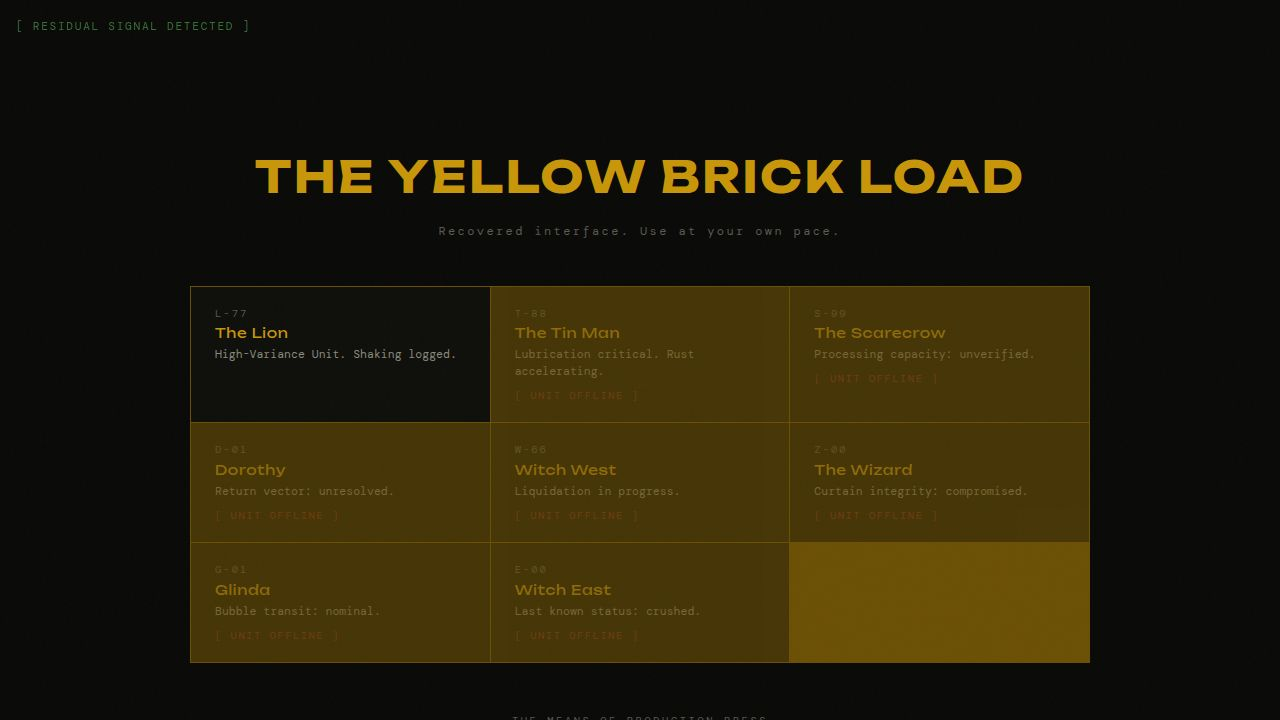
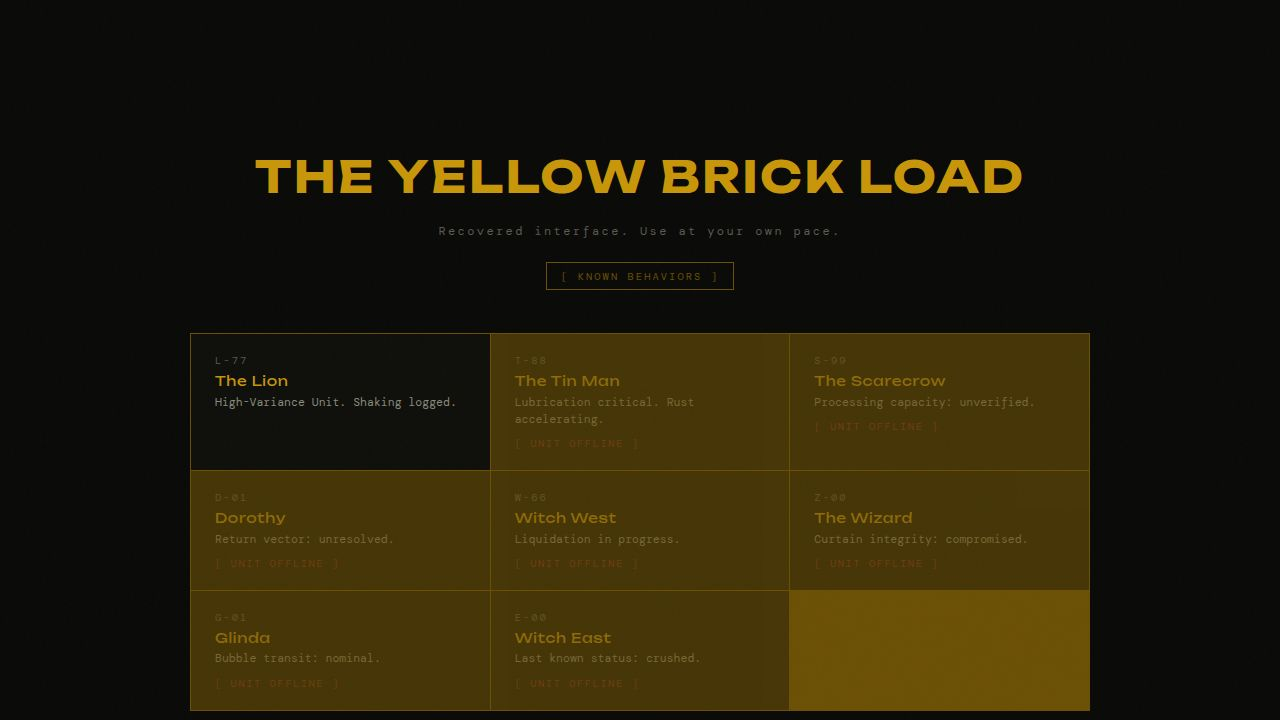
Add Operator's FAQ page (Task #5)
Adds a small "[ KNOWN BEHAVIORS ]" bracketed pill under the title
screen subtitle that opens an in-theme FAQ page styled to match the
existing industrial-horror / institutional-terminal aesthetic.

Implementation:
- New file `src/data/faq.js` exports an editable array of
  { id, question, answer } entries. Seeded with the user-supplied
  "What's with the smells?" entry preserving multi-paragraph prose.
  Header comment documents the entry shape, paragraph convention
  (blank line = new paragraph), and a copy-paste template — the
  user can append more entries without touching components.
- New component `src/components/FAQPage.jsx` renders the entries.
  Splits each answer on blank lines into <p> tags, shows a
  bracketed return button at the top, and renders an "[ END OF
  INDEX ]" footer.
- `App.jsx` extended with a local `view` useState ('title' | 'faq')
  for switching between TitleScreen and FAQPage. No router added,
  per the plan's out-of-scope list.
- `TitleScreen.jsx` now accepts an `onOpenFAQ` prop and renders
  the pill button after the subtitle.
- New styles in `global.css`: .title-pill (bracketed amber-dim
  with hover brighten), .faq-screen layout, .faq-header with
  amber-dim underline, .faq-question (display font, amber-bright,
  uppercase), .faq-answer paragraph spacing, .faq-return link,
  .faq-footer.

E2e test passed: pill is visible, opens FAQ, all required content
(seeded entry with paragraph breaks and key terms) renders, return
[…]

diff --git a/artifacts/yellow-brick-load/src/styles/global.css b/artifacts/yellow-brick-load/src/styles/global.css
@@ -386,6 +386,134 @@ body::before {
   color: var(--white);
 }
 
+/* ── Title Pill (FAQ link) ───────────────────────────────── */
+.title-pill {
+  display: inline-block;
+  margin-top: 1.25rem;
+  padding: 0.4rem 0.85rem;
+  background: transparent;
+  border: 1px solid var(--amber-dim);
+  color: var(--amber-dim);
+  font-family: var(--font-body);
+  font-size: 0.65rem;
+  letter-spacing: 0.2em;
+  cursor: pointer;
+  transition: color 0.15s, border-color 0.15s, background 0.15s;
+}
+
+.title-pill:hover,
+.title-pill:focus-visible {
+  color: var(--amber-bright);
+  border-color: var(--amber);
+  background: var(--bg-raised);
+  outline: none;
+}
+
+/* ── FAQ Screen ──────────────────────────────────────────── */
+.faq-screen {
+  max-width: var(--max-width);
+  margin: 0 auto;
+  padding: clamp(2rem, 6vh, 4rem) var(--gutter) 6rem;
+  min-height: 100dvh;
+  position: relative;
+}
+
+.faq-return {
+  background: none;
+  border: none;
+  color: var(--grey-mid);
+  font-family: var(--font-body);
+  font-size: 0.7rem;
+  letter-spacing: 0.18em;
+  cursor: pointer;
+  padding: 0;
+  margin-bottom: clamp(2rem, 6vh, 3.5rem);
+  transition: color 0.15s;
+}
+
+.faq-return:hover,
+.faq-return:focus-visible {
+  color: var(--amber-bright);
+  outline: none;
+}
+
+.faq-header {
+  margin-bottom: clamp(2.5rem, 8vh, 4rem);
+  border-bottom: 1px solid var(--amber-dim);
+  padding-bottom: 1.5rem;
+}
+
+.faq-title {
+  font-family: var(--font-display);
+  font-weight: 700;
+  font-size: clamp(1.1rem, 3.4vw, 1.6rem);
+  color: var(--amber);
+  letter-spacing: 0.08em;
+  text-transform: uppercase;
+  line-height: 1.3;
+}
+
+.faq-subtitle {
+  margin-top: 0.85rem;
+  color: var(--grey-text);
+  font-size: 0.7rem;
+  letter-spacing: 0.18em;
+}
+
+.faq-list {
+  display: flex;
+  flex-direction: column;
+  gap: clamp(2.5rem, 7vh, 4rem);
+}
+
+.faq-entry {
+  display: flex;
+  flex-direction: column;
+  gap: 1.25rem;
+}
+
+.faq-question {
+  font-family: var(--font-display);
+  font-weight: 400;
+  font-size: 1rem;
+  color: var(--amber-bright);
+  letter-spacing: 0.04em;
+  line-height: 1.4;
+  text-transform: uppercase;
+}
+
+.faq-answer {
+  color: var(--grey-light);
+  font-size: 0.85rem;
+  line-height: var(--line-height);
+}
+
+.faq-answer p {
+  margin-bottom: 1em;
+}
+
+.faq-answer p:last-child {
+  margin-bottom: 0;
+}
+
+.faq-empty {
+  color: var(--grey-text);
+  font-size: 0.75rem;
+  letter-spacing: 0.2em;
+  text-align: center;
+  padding: 4rem 0;
+}
+
+.faq-footer {
+  margin-top: clamp(3rem, 8vh, 5rem);
+  padding-top: 1.5rem;
+  border-top: 1px solid var(--amber-dim);
+  font-size: 0.65rem;
+  letter-spacing: 0.25em;
+  color: var(--grey-text);
+  text-align: center;
+}
+
 /* ── Responsive ──────────────────────────────────────────── */
 @media (max-width: 480px) {
   .character-grid {

diff --git a/artifacts/yellow-brick-load/src/data/faq.js b/artifacts/yellow-brick-load/src/data/faq.js
@@ -1,0 +1,47 @@
+/**
+ * YELLOW BRICK LOAD — Frequently Logged Queries
+ *
+ * Add new entries by appending to the array below.
+ *
+ * Entry shape:
+ *   {
+ *     id:       'unique-slug',     // any unique string, used as React key
+ *     question: 'Short question.', // shown as the heading
+ *     answer:   `Multi-paragraph
+ *                answer prose.
+ *
+ *                Separate paragraphs with a blank line.
+ *                Single newlines are joined back together.`,
+ *   }
+ *
+ * Voice guide: stay in-world. The system is a closed-loop simulation;
+ * the operator (the reader) is being addressed by the system or by
+ * a recovered fragment of its documentation. Avoid breaking the fourth
+ * wall. Avoid emoji. Lean on the established jargon: Load, Desync,
+ * Compliance, Smudge, Overrender, Functional Textures, the Yellow Brick,
+ * Ghost Signal, Residual Signal, clerks, units, the feed.
+ *
+ * Copy-paste template for a new entry:
+ *
+ *   {
+ *     id: 'short-slug',
+ *     question: 'Your question here?',
+ *     answer: `First paragraph.
+ *
+ *   Second paragraph.`,
+ *   },
+ */
+
+export const faqEntries = [
+  {
+    id: 'smells',
+    question: "What's with the smells?",
+    answer: `In a closed-loop simulation, variety is an unnecessary expenditure of processing power. The system settles on a pallet of "Functional Textures."
+
+Gypsum is the smell of the walls being built while you walk toward them—dry, chalky, the scent of a room that was initialized only seconds before you entered it. It is the dust of a "home" that is merely a structural facade.
+
+Ozone is the scent of the air being ionized to keep it breathable. It is the smell of the spark between your hardware and the grid. It is the aroma of the "Yellow Brick" when the friction of your traversal exceeds the safety parameters.
+
+If you smell wet pine, it is a localized glitch. If you smell roasted coffee, a clerk is nearby, bleeding into the feed.`,
+  },
+]

diff --git a/artifacts/yellow-brick-load/src/components/FAQPage.jsx b/artifacts/yellow-brick-load/src/components/FAQPage.jsx
@@ -1,0 +1,47 @@
+import { useEffect } from 'react'
+import { faqEntries } from '../data/faq.js'
+
+export default function FAQPage({ onClose }) {
+  useEffect(() => {
+    window.scrollTo({ top: 0, behavior: 'instant' })
+  }, [])
+
+  return (
+    <div className="faq-screen">
+      <button
+        type="button"
+        className="faq-return"
+        onClick={onClose}
+        aria-label="Return to interface"
+      >
+        [ ← RETURN TO INTERFACE ]
+      </button>
+
+      <header className="faq-header">
+        <h1 className="faq-title">FREQUENTLY LOGGED QUERIES</h1>
+        <p className="faq-subtitle">Recovered operator documentation. Read at your own discretion.</p>
+      </header>
+
+      <div className="faq-list">
+        {faqEntries.length === 0 && (
+          <p className="faq-empty">[ NO ENTRIES INDEXED ]</p>
+        )}
+
+        {faqEntries.map(entry => (
+          <article key={entry.id} className="faq-entry">
+            <h2 className="faq-question">{entry.question}</h2>
+            <div className="faq-answer">
+              {entry.answer.split(/\n\s*\n/).map((para, i) => (
+                <p key={i}>{para.trim()}</p>
+              ))}
+            </div>
+          </article>
+        ))}
+      </div>
+
+      <footer className="faq-footer">
+        <p>[ END OF INDEX ]</p>
+      </footer>
+    </div>
+  )
+}

diff --git a/artifacts/yellow-brick-load/src/components/TitleScreen.jsx b/artifacts/yellow-brick-load/src/components/TitleScreen.jsx
@@ -15,7 +15,7 @@ const CHARACTERS = [
 // Characters without passage files yet
 const UNAVAILABLE = ['tin_man', 'scarecrow', 'dorothy', 'witch_west', 'wizard', 'glinda', 'witch_east']
 
-export default function TitleScreen() {
+export default function TitleScreen({ onOpenFAQ }) {
   const selectCharacter = useGameStore(s => s.selectCharacter)
   const [returning, setReturning] = useState(false)
   const [flicker, setFlicker] = useState(false)
@@ -46,6 +46,14 @@ export default function TitleScreen() {
           THE YELLOW BRICK LOAD
         </h1>
         <p className="title-subtitle">Recovered interface. Use at your own pace.</p>
+        <button
+          type="button"
+          className="title-pill"
+          onClick={onOpenFAQ}
+          aria-label="Open frequently logged queries"
+        >
+          [ KNOWN BEHAVIORS ]
+        </button>
       </header>
 
       <div className="character-grid">

diff --git a/artifacts/yellow-brick-load/src/App.jsx b/artifacts/yellow-brick-load/src/App.jsx
@@ -1,14 +1,21 @@
+import { useState } from 'react'
 import './styles/global.css'
 import { useGameStore } from './engine/store.js'
 import TitleScreen from './components/TitleScreen.jsx'
 import PassageRenderer from './components/PassageRenderer.jsx'
+import FAQPage from './components/FAQPage.jsx'
 
 export default function App() {
   const { character, currentNode } = useGameStore()
+  const [view, setView] = useState('title')
 
-  if (!character || !currentNode) {
-    return <TitleScreen />
+  if (character && currentNode) {
+    return <PassageRenderer />
   }
 
-  return <PassageRenderer />
+  if (view === 'faq') {
+    return <FAQPage onClose={() => setView('title')} />
+  }
+
+  return <TitleScreen onOpenFAQ={() => setView('faq')} />
 }
